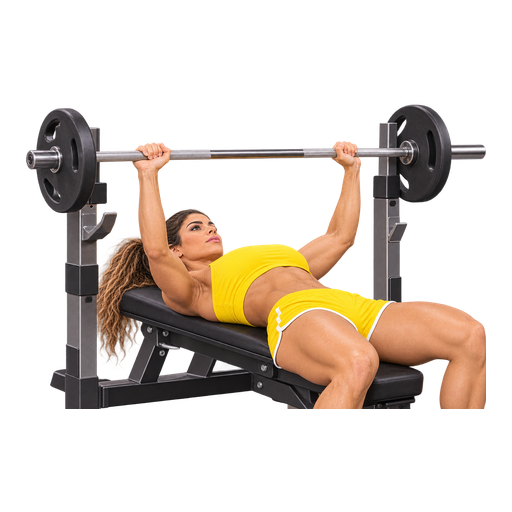
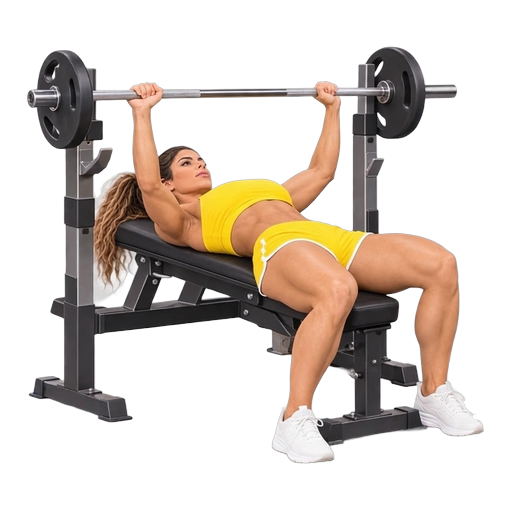
Version 1.7.90 - Six icônes d'exercices nouvelles ou refaites
- Nouvelles : Tractions assistées, Tractions prise neutre, Rowing haltères, Tirage bras tendus
- Remplacées : Développé couché, Tirage horizontal

Claude-Session: https://claude.ai/code/session_01D2bERS7WBZgExNoVRodtwC

diff --git a/js/catalogue.js b/js/catalogue.js
@@ -32,14 +32,14 @@ const CATALOGUE = [
   {"id": 23, "name": "Mollets haltères", "group": "Jambes", "mode": "weight", "sets": 3, "reps": "12–15", "rest": 90},
   {"id": 25, "name": "Tirage vertical", "group": "Dos", "poly": true, "mode": "weight", "sets": 3, "reps": "8–12", "rest": 120, "icon": "icons/lat_pulldown.png"},
   {"id": 26, "name": "Tractions", "group": "Dos", "poly": true, "mode": "bw", "sets": 3, "reps": "8–12", "rest": 120, "icon": "icons/pull_up.png"},
-  {"id": 27, "name": "Tractions assistées", "group": "Dos", "poly": true, "mode": "bw", "sets": 3, "reps": "8–12", "rest": 120},
-  {"id": 28, "name": "Tractions prise neutre", "group": "Dos", "poly": true, "mode": "bw", "sets": 3, "reps": "8–12", "rest": 120},
+  {"id": 27, "name": "Tractions assistées", "group": "Dos", "poly": true, "mode": "bw", "sets": 3, "reps": "8–12", "rest": 120, "icon": "icons/assisted_pull_up.png"},
+  {"id": 28, "name": "Tractions prise neutre", "group": "Dos", "poly": true, "mode": "bw", "sets": 3, "reps": "8–12", "rest": 120, "icon": "icons/neutral_grip_pull_up.png"},
   {"id": 29, "name": "Rowing barre", "group": "Dos", "poly": true, "mode": "weight", "sets": 3, "reps": "6–10", "rest": 180, "icon": "icons/barbell_row.png"},
-  {"id": 30, "name": "Rowing haltères", "group": "Dos", "poly": true, "mode": "weight", "sets": 3, "reps": "8–12", "rest": 120},
+  {"id": 30, "name": "Rowing haltères", "group": "Dos", "poly": true, "mode": "weight", "sets": 3, "reps": "8–12", "rest": 120, "icon": "icons/bent_over_dumbbell_row.png"},
   {"id": 31, "name": "Rowing unilatéral", "group": "Dos", "poly": true, "mode": "weight", "sets": 3, "reps": "8–12", "rest": 120, "icon": "icons/dumbbell_row.png"},
   {"id": 32, "name": "Tirage horizontal", "group": "Dos", "poly": true, "mode": "weight", "sets": 3, "reps": "8–12", "rest": 120, "icon": "icons/seated_row.png"},
   {"id": 33, "name": "Rowing poulie basse", "group": "Dos", "poly": true, "mode": "weight", "sets": 3, "reps": "8–12", "rest": 120},
-  {"id": 34, "name": "Tirage bras tendus", "group": "Dos", "mode": "weight", "sets": 3, "reps": "10–15", "rest": 90},
+  {"id": 34, "name": "Tirage bras tendus", "group": "Dos", "mode": "weight", "sets": 3, "reps": "10–15", "rest": 90, "icon": "icons/straight_arm_pulldown.png"},
   {"id": 35, "name": "Tirage facial", "group": "Dos", "poly": true, "mode": "weight", "sets": 3, "reps": "12–15", "rest": 90},
   {"id": 36, "name": "Pull-over", "group": "Dos", "mode": "weight", "sets": 3, "reps": "10–15", "rest": 90},
   {"id": 37, "name": "Shrugs haltères", "group": "Dos", "mode": "weight", "sets": 3, "reps": "10–15", "rest": 90},

diff --git a/sw.js b/sw.js
@@ -2,7 +2,7 @@
 // APP_VERSION doit être incrémenté à chaque release (en même temps que
 // manifest.json) : le navigateur ne réinstalle le service worker que si
 // le contenu de ce fichier change.
-const APP_VERSION = '1.7.89';
+const APP_VERSION = '1.7.90';
 // 1.7.64 (co-auteur : Claude) : production (…/suivi-fitness/) et test (…/suivi-fitness/dev/) sont sur le même
 // domaine et partagent le stockage des caches : chaque version nomme ses caches d'après son dossier et ne
 // supprime que les siens (plus les anciens caches sans dossier, d'avant la 1.7.64).
@@ -88,6 +88,10 @@ const ASSETS = [
   './icons/seated_row.png',
   './icons/triceps_extension.png',
   './icons/walking_lunge.png',
+  './icons/assisted_pull_up.png',
+  './icons/neutral_grip_pull_up.png',
+  './icons/bent_over_dumbbell_row.png',
+  './icons/straight_arm_pulldown.png',
   './icons/hanging_leg_raises.png',
   './icons/burpees.png',
   './icons/ski_erg.png',

diff --git a/CHANGELOG.md b/CHANGELOG.md
@@ -7,6 +7,15 @@ et ce projet respecte [Semantic Versioning](https://semver.org/spec/v2.0.0.html)
 
 ---
 
+## [1.7.90] - 2026-11-14
+### 🖼 Six icônes d'exercices nouvelles ou refaites (co-auteur : Claude)
+- **Nouvelles** : Tractions assistées (élastique colorié en jaune avec un liseré noir, pour le voir sur fond clair comme sombre), Tractions prise neutre (zoom sur le haut, barre remise), Rowing haltères (zoom sur le buste ; fichier `bent_over_dumbbell_row.png`, distinct du Rowing unilatéral), Tirage bras tendus (zoom fort, corde et câble en jaune avec un liseré noir).
+- **Remplacées** : Développé couché (jambes et pieds entiers), Tirage horizontal (machine, zoom sur la personne).
+- Toutes ajoutées au cache du service worker.
+- `manifest.json` et `APP_VERSION` (`sw.js`) alignés sur 1.7.90.
+
+---
+
 ## [1.7.89] - 2026-11-14
 ### 🚣 Records de cardio : la vitesse, pas la durée (co-auteur : Claude)
 - Pour le cardio avec distance ou étages, un record est maintenant **la meilleure allure** (rameur, ski trainer : /500 m ; tapis : /km — plus bas = mieux) ou **la meilleure vitesse / le meilleur rythme** (vélos : km/h ; stair climber : étages/min — plus haut = mieux). Ramer plus longtemps mais moins vite n'est plus un record. La durée reste le critère pour la planche, le gainage et la corde à sauter.
